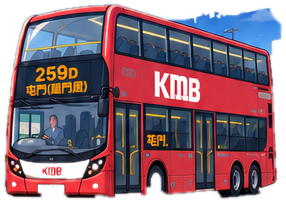
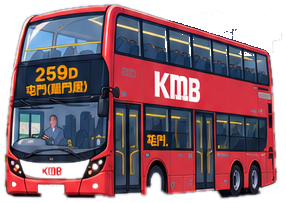
feat: 自動定位選方向、早/遲目標時間、班次間隔；修正巴士圖與夜晚文字

diff --git a/app.js b/app.js
@@ -50,7 +50,9 @@ function render(d){
   if(first){$('nextMinutes').textContent=minText(first.minutes);$('nextTime').textContent=fmt(first.eta);$('nextDestination').textContent=`${first.destination} · KMB 實時 ETA`;$('progressBar').style.width=`${Math.max(12,Math.min(92,100-(first.minutes||0)*3))}%`}else{$('nextMinutes').textContent='--';$('nextTime').textContent='暫時沒有班次';$('nextDestination').textContent=''}
   let later=b.slice(1,3);$('etaList').innerHTML=later.length?later.map(x=>`<div class="eta-item"><strong>${fmt(x.eta)}</strong><span>${minText(x.minutes)}</span></div>`).join(''):'<div class="loading">暫時沒有更多班次</div>';
   renderSecondStop(d,b);
+  renderGap(b);
   let de=destinationEstimate(first,d);if(de){$('destinationTime').textContent=fmt(de.eta);$('destinationName').textContent=r.dest;$('destinationMeta').textContent=de.official?(de.minutes==null?'KMB 目的地 ETA':`約 ${Math.max(0,Math.round(de.minutes))} 分鐘後`):`按實時班次推算，車程約 ${DEST_MINUTES[direction]} 分鐘`}else{$('destinationTime').textContent='--:--';$('destinationName').textContent=r.dest;$('destinationMeta').textContent='暫時沒有足夠資料推算'}
+  renderVerdict(de);
   // heroMessage 由 theme.js 按「季節／時段／天氣」決定，唔在這裡覆寫。
   $('loveMessage').innerHTML=direction==='inbound'?'辛苦咗一日，放工記得食啲嘢先返嚟。<br>路上小心，我一直喺度等你 ❤':'早晨呀親愛的，返工路上小心。<br>今日都加油呀，我支持你 ❤';
   $('destinationHeading').textContent=direction==='inbound'?'預計返到屋企':'預計到達觀塘';
@@ -76,9 +78,186 @@ async function load(){
   }catch(e){$('errorBox').textContent=`暫時無法取得九巴資料：${e.message}`;$('errorBox').classList.remove('hidden')}
 }
 function clock(){let d=new Date();$('clock').textContent=new Intl.DateTimeFormat('zh-HK',{hour:'2-digit',minute:'2-digit',hour12:false,timeZone:'Asia/Hong_Kong'}).format(d)}
-document.querySelectorAll('.mode').forEach(b=>b.addEventListener('click',()=>{document.querySelectorAll('.mode').forEach(x=>x.classList.remove('active'));b.classList.add('active');direction=b.dataset.direction;load()}));
-$('refreshBtn').addEventListener('click',load);clock();setInterval(clock,1000);load();setInterval(function(){ if (!document.hidden) load(); }, 60000);
-// 由其他 App 切返嚟即刻更新一次（唔使等最多 60 秒）
+document.querySelectorAll('.mode').forEach(b=>b.addEventListener('click',()=>{manualDirection=true;document.querySelectorAll('.mode').forEach(x=>x.classList.remove('active'));b.classList.add('active');direction=b.dataset.direction;load()}));
+$('refreshBtn').addEventListener('click',load);
+$('arrivalVerdict').addEventListener('click',editTarget);loadTarget();clock();setInterval(clock,1000);load();bootGeo();setInterval(function(){ if (!document.hidden) load(); }, 60000);
+
+/* ================================================================
+   自動偵測位置 → 自動揀方向
+   ---------------------------------------------------------------
+   屯門／天水圍一帶 → 返工（往鯉魚門邨）
+   觀塘／九龍東一帶 → 放工（往屯門）
+   授權一次之後，瀏覽器會記住，之後開頁面唔會再問。
+   座標會存 30 分鐘，避免每次開都定位。
+   ================================================================ */
+var GEO_KEY = 'nd259-geo-v1';
+var GEO_MAX_AGE = 30 * 60 * 1000;
+var ANCHOR = {
+  outbound: { lat: 22.376415, lon: 113.966141 }, // 湖景邨湖翠樓（屯門）
+  inbound: { lat: 22.316726, lon: 114.215543 },  // 觀塘定富街（觀塘）
+};
+var manualDirection = false;
+
+function haversineM(a, b) {
+  var R = 6371000, rad = Math.PI / 180;
+  var dLat = (b.lat - a.lat) * rad, dLon = (b.lon - a.lon) * rad;
+  var h = Math.sin(dLat / 2) * Math.sin(dLat / 2) +
+    Math.cos(a.lat * rad) * Math.cos(b.lat * rad) * Math.sin(dLon / 2) * Math.sin(dLon / 2);
+  return 2 * R * Math.asin(Math.min(1, Math.sqrt(h)));
+}
+
+function bucketOf(lat, lon) {
+  var point = { lat: lat, lon: lon };
+  var toTuenMun = haversineM(point, ANCHOR.outbound);
+  var toKwunTong = haversineM(point, ANCHOR.inbound);
+  return toTuenMun <= toKwunTong ? 'outbound' : 'inbound';
+}
+
+function readGeo() {
+  try {
+    var raw = localStorage.getItem(GEO_KEY);
+    if (!raw) return null;
+    var parsed = JSON.parse(raw);
+    if (!parsed || typeof parsed.lat !== 'number' || typeof parsed.lon !== 'number') return null;
+    if (Date.now() - parsed.at > GEO_MAX_AGE) return parsed; // 過期仍可用一次，但會再定位
+    return parsed;
+  } catch (e) { return null; }
+}
+
+function saveGeo(lat, lon) {
+  try { localStorage.setItem(GEO_KEY, JSON.stringify({ lat: lat, lon: lon, at: Date.now() })); } catch (e) {}
+}
+
+function setDirection(next, fromGeo) {
+  if (direction === next) return;
+  direction = next;
+  document.querySelectorAll('.mode').forEach(function (b) {
+    b.classList.toggle('active', b.dataset.direction === next);
+  });
+  load();
+  if (fromGeo) {
+    var label = next === 'outbound' ? '屯門一帶' : '觀塘一帶';
+    var el = document.getElementById('updated');
+    if (el) el.textContent = '已按位置（' + label + '）選方向';
+  }
+}
+
+function applyLocation(lat, lon) {
+  if (manualDirection) return;
+  setDirection(bucketOf(lat, lon), true);
+}
+
+function requestFix() {
+  navigator.geolocation.getCurrentPosition(function (pos) {
+    saveGeo(pos.coords.latitude, pos.coords.longitude);
+    applyLocation(pos.coords.latitude, pos.coords.longitude);
+  }, function () { /* 拒絕或失敗：沿用預設方向，唔騷擾用戶 */ },
+    { enableHighAccuracy: false, timeout: 8000, maximumAge: 10 * 60 * 1000 });
+}
+
+function bootGeo() {
+  var cached = readGeo();
+  if (cached) applyLocation(cached.lat, cached.lon);
+  if (!('geolocation' in navigator)) return;
+
+  // 冇快取：直接問一次（瀏覽器只會問一次，之後記住）
+  if (!cached) { requestFix(); return; }
+
+  // 有快取：只在「權限已授予」時靜靜更新，唔會彈提示
+  if (Date.now() - cached.at < 10 * 60 * 1000) return;
+  if (navigator.permissions && navigator.permissions.query) {
+    navigator.permissions.query({ name: 'geolocation' }).then(function (status) {
+      if (status.state === 'granted') requestFix();
+    }).catch(function () {});
+  }
+}
+
+/* ================================================================
+   早／遲：同目標到達時間比較
+   ================================================================ */
+var TARGET_KEY = 'nd259-target-v1';
+var TARGET = { outbound: '09:00', inbound: '19:30' };
+
+function loadTarget() {
+  try {
+    var saved = JSON.parse(localStorage.getItem(TARGET_KEY) || 'null');
+    if (saved && /^\d{2}:\d{2}$/.test(saved.outbound)) TARGET.outbound = saved.outbound;
+    if (saved && /^\d{2}:\d{2}$/.test(saved.inbound)) TARGET.inbound = saved.inbound;
+  } catch (e) {}
+}
+
+function saveTarget() {
+  try { localStorage.setItem(TARGET_KEY, JSON.stringify(TARGET)); } catch (e) {}
+}
+
+/** 撳一下就可以改「目標到達時間」，例如返工 09:00、放工 19:30。 */
+function editTarget() {
+  var current = TARGET[direction];
+  var input = window.prompt('目標到達時間（24 小時制，例如 09:00）', current);
+  if (!input) return;
+  var match = input.trim().match(/^(\d{1,2}):(\d{2})$/);
+  if (!match) return;
+  var hour = Number(match[1]), minute = Number(match[2]);
+  if (hour > 23 || minute > 59) return;
+  TARGET[direction] = String(hour).padStart(2, '0') + ':' + String(minute).padStart(2, '0');
+  saveTarget();
+  load();
+}
+
+function clockMinutes(date) {
+  return date.getHours() * 60 + date.getMinutes();
+}
+
+function targetMinutes(dir) {
+  var bits = TARGET[dir].split(':');
+  return Number(bits[0]) * 60 + Number(bits[1]);
+}
+
+function renderVerdict(de) {
+  var el = $('arrivalVerdict');
+  if (!el) return;
+  var target = TARGET[direction];
+
+  // 目標時間距離太遠（例如朝早 9 點的目標，晚上 8 點睇）就唔講「遲 700 分鐘」，
+  // 只提示可以撳一下改目標。
+  function hint() {
+    el.textContent = '目標 ' + target + '・撳一下改';
+    el.className = 'home-verdict';
+    el.title = '設定你嘅目標到達時間';
+  }
+
+  var arrival = de ? hkDate(de.eta) : null;
+  if (!arrival || isNaN(arrival)) { hint(); return; }
+
+  var diff = targetMinutes(direction) - clockMinutes(arrival); // 正數 = 早到
+  if (Math.abs(diff) > 60) { hint(); return; }
+
+  if (Math.abs(diff) <= 2) {
+    el.textContent = '差唔多啱時間（目標 ' + target + '）';
+    el.className = 'home-verdict ontime';
+  } else if (diff > 0) {
+    el.textContent = '早 ' + diff + ' 分鐘到（目標 ' + target + '）';
+    el.className = 'home-verdict early';
+  } else {
+    el.textContent = '遲 ' + Math.abs(diff) + ' 分鐘（目標 ' + target + '）';
+    el.className = 'home-verdict late';
+  }
+}
+
+function renderGap(buses) {
+  var el = $('gapNote');
+  if (!el) return;
+  var first = buses[0], second = buses[1];
+  if (!first || !second || first.minutes == null || second.minutes == null) {
+    el.textContent = '';
+    return;
+  }
+  var gap = second.minutes - first.minutes;
+  el.textContent = gap >= 20
+    ? '⚠ 錯過呢班要等 ' + gap + ' 分鐘'
+    : '錯過呢班要等 ' + gap + ' 分鐘';
+  el.className = 'gap-note' + (gap >= 20 ? ' warn' : '');
+}// 由其他 App 切返嚟即刻更新一次（唔使等最多 60 秒）
 document.addEventListener('visibilitychange', function(){ if (!document.hidden) load(); });
 /* Service Worker：開得快、離線都開到（唔會快取實時資料） */
 if ('serviceWorker' in navigator) {

diff --git a/index.html b/index.html
@@ -10,7 +10,7 @@
 <link rel="manifest" href="manifest.json">
 <link rel="apple-touch-icon" href="icon-192.png">
 <link rel="icon" href="icon-192.png" type="image/png">
-<link rel="stylesheet" href="style.css?v=20261028-b">
+<link rel="stylesheet" href="style.css?v=20261028-e">
 <title>親愛的返工・放工時間表</title>
 </head>
 <body>
@@ -57,6 +57,7 @@
   </div>
   <div class="progress"><span id="progressBar"></span></div>
   <div class="later-head"><b>之後班次</b><span>每 60 秒更新</span></div>
+  <div id="gapNote" class="gap-note"></div>
   <div id="etaList" class="eta-list"><div class="loading">正在更新班次…</div></div>
 </section>
 
@@ -69,12 +70,14 @@
   </div>
   <div class="second-stop-note" id="secondStopNote">正在取得實時資料…</div>
   <div class="later-head"><b>之後班次</b><span>每 60 秒更新</span></div>
+  <div id="gapNote" class="gap-note"></div>
   <div id="secondEtaList" class="eta-list"><div class="loading">正在更新班次…</div></div>
 </section>
 
 <div class="two-col">
   <section class="traffic-card card"><div class="card-title">🚦 今日條路點？ <span id="trafficUpdated">—</span></div><div id="trafficEmoji" class="traffic-emoji">🙂</div><div id="trafficLabel" class="traffic-label">正在分析</div><div id="trafficNote" class="traffic-note">根據實時班次推算</div></section>
-  <section class="home-card card"><div class="card-title">🏠 <span id="destinationHeading">預計到達觀塘</span></div><div id="destinationTime" class="home-time">--:--</div><div id="destinationName" class="home-name">觀塘道休憩處</div><div id="destinationMeta" class="home-meta">等待實時資料</div><div class="house-art">🏠💕</div></section>
+  <section class="home-card card"><div class="card-title">🏠 <span id="destinationHeading">預計到達觀塘</span></div><div id="destinationTime" class="home-time">--:--</div><div id="destinationName" class="home-name">觀塘道休憩處</div><div id="destinationMeta" class="home-meta">等待實時資料</div>
+      <div id="arrivalVerdict" class="home-verdict"></div><div class="house-art">🏠💕</div></section>
 </div>
 
 <section class="love-card card"><div class="love-icon">💗</div><div><h2>親愛的小提示</h2><p id="loveMessage">早晨呀親愛的，返工路上小心。<br>今日都加油呀，我支持你 ❤</p></div><div class="love-art">🥰<br><span>我等你！</span></div></section>
@@ -82,6 +85,6 @@
 <div id="errorBox" class="error hidden"></div>
 <div class="footer-love">♡ 無論幾遠，屋企永遠有你嘅位置 ♡</div>
 </main>
-<script src="theme.js?v=20261028-b"></script>`n<script src="app.js?v=20261028-b"></script>
+<script src="theme.js?v=20261028-e"></script>`n<script src="app.js?v=20261028-e"></script>
 </body>
 </html>

diff --git a/style.css b/style.css
@@ -222,3 +222,48 @@ html[data-part="dusk"] .hero-shade{
     linear-gradient(90deg,rgba(60,26,10,.55) 0%,rgba(70,32,16,.30) 48%,rgba(80,36,18,.10) 100%),
     linear-gradient(180deg,rgba(255,180,120,.10) 30%,rgba(40,16,8,.72) 100%);
 }
+/* ── 修正：巴士圖貼紙感（原本有 inner border + 底色，圖貼死框邊） ── */
+.bus-visual{
+  background:radial-gradient(circle at 52% 62%,rgba(255,190,140,.20),rgba(255,190,140,0) 68%);
+  box-shadow:none;
+  padding:6px;
+  overflow:visible;
+}
+.bus-visual img{
+  filter:drop-shadow(0 8px 12px rgba(0,0,0,.38));
+  transform:none;
+}
+.second-bus-art{
+  background:radial-gradient(circle at 52% 60%,rgba(255,190,140,.16),rgba(255,190,140,0) 70%);
+  padding:6px;
+  overflow:visible;
+}
+.second-bus-art img{filter:drop-shadow(0 7px 10px rgba(0,0,0,.34))}
+
+/* ── 修正：夜晚「親愛的小提示」文字睇唔到（紅字／深字貼深底） ── */
+.love-card h2,.love-card p{color:var(--card-ink)}
+html[data-dark="1"] .love-card p{color:#c9d4ea}
+html[data-dark="1"] .love-card h2{color:var(--accent-2)}
+html[data-dark="1"] .traffic-note,html[data-dark="1"] .home-meta{color:#9fb0cd}
+html[data-dark="1"] .card-title span{color:#8fa2c2}
+html[data-dark="1"] .error{background:#2a1520;color:#ffb3c6;border-color:#7a2d45}
+/* 「早／遲」與班次間隔提示 */
+.home-verdict{margin-top:8px;font-size:11px;font-weight:900;letter-spacing:.01em}
+.home-verdict.early{color:#2f9e63}
+.home-verdict.ontime{color:#6b7a90}
+.home-verdict.late{color:#d84a6b}
+html[data-dark="1"] .home-verdict.early{color:#6ee2a0}
+html[data-dark="1"] .home-verdict.ontime{color:#a4b6d2}
+html[data-dark="1"] .home-verdict.late{color:#ff8aa6}
+.gap-note{margin:8px 0 2px;font-size:10px;font-weight:800;color:var(--card-sub);position:relative;z-index:3}
+.gap-note.warn{color:#ffb26b}
+html[data-dark="1"] .gap-note{color:#a9bbd8}
+html[data-dark="1"] .gap-note.warn{color:#ffc37a}
+/* 首頁卡多了一行「早／遲」，需要少少高度，避免被 overflow 剪走 */
+.traffic-card,.home-card{min-height:212px}
+.home-card{overflow:visible}
+.home-card .house-art{bottom:6px;right:2px;opacity:.9}
+.home-verdict{margin-top:7px;line-height:1.35;max-width:170px;cursor:pointer}
+/* 預設（未設定目標）狀態都要睇得到 */
+.home-verdict{color:var(--card-sub)}
+.home-verdict::after{content:" ✎";font-size:10px;opacity:.7}
